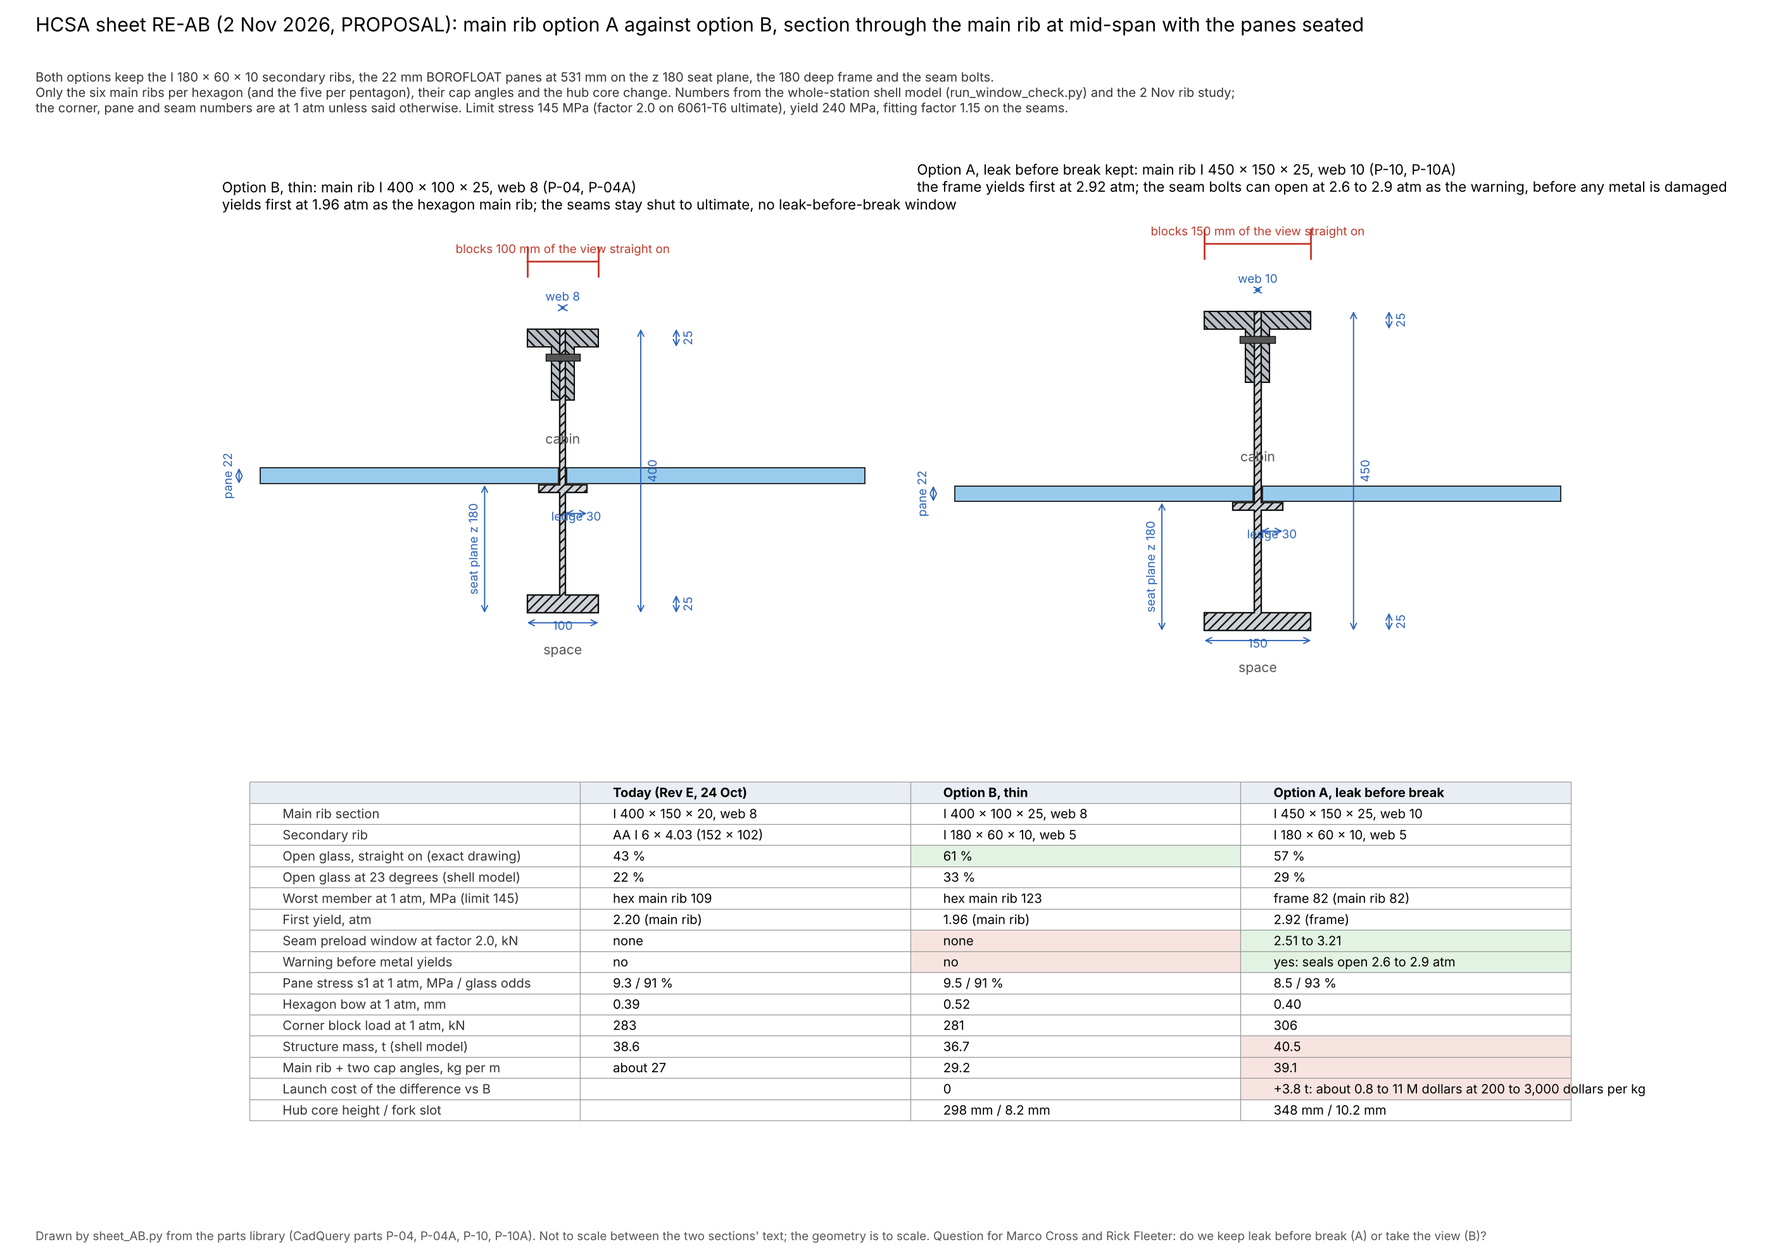
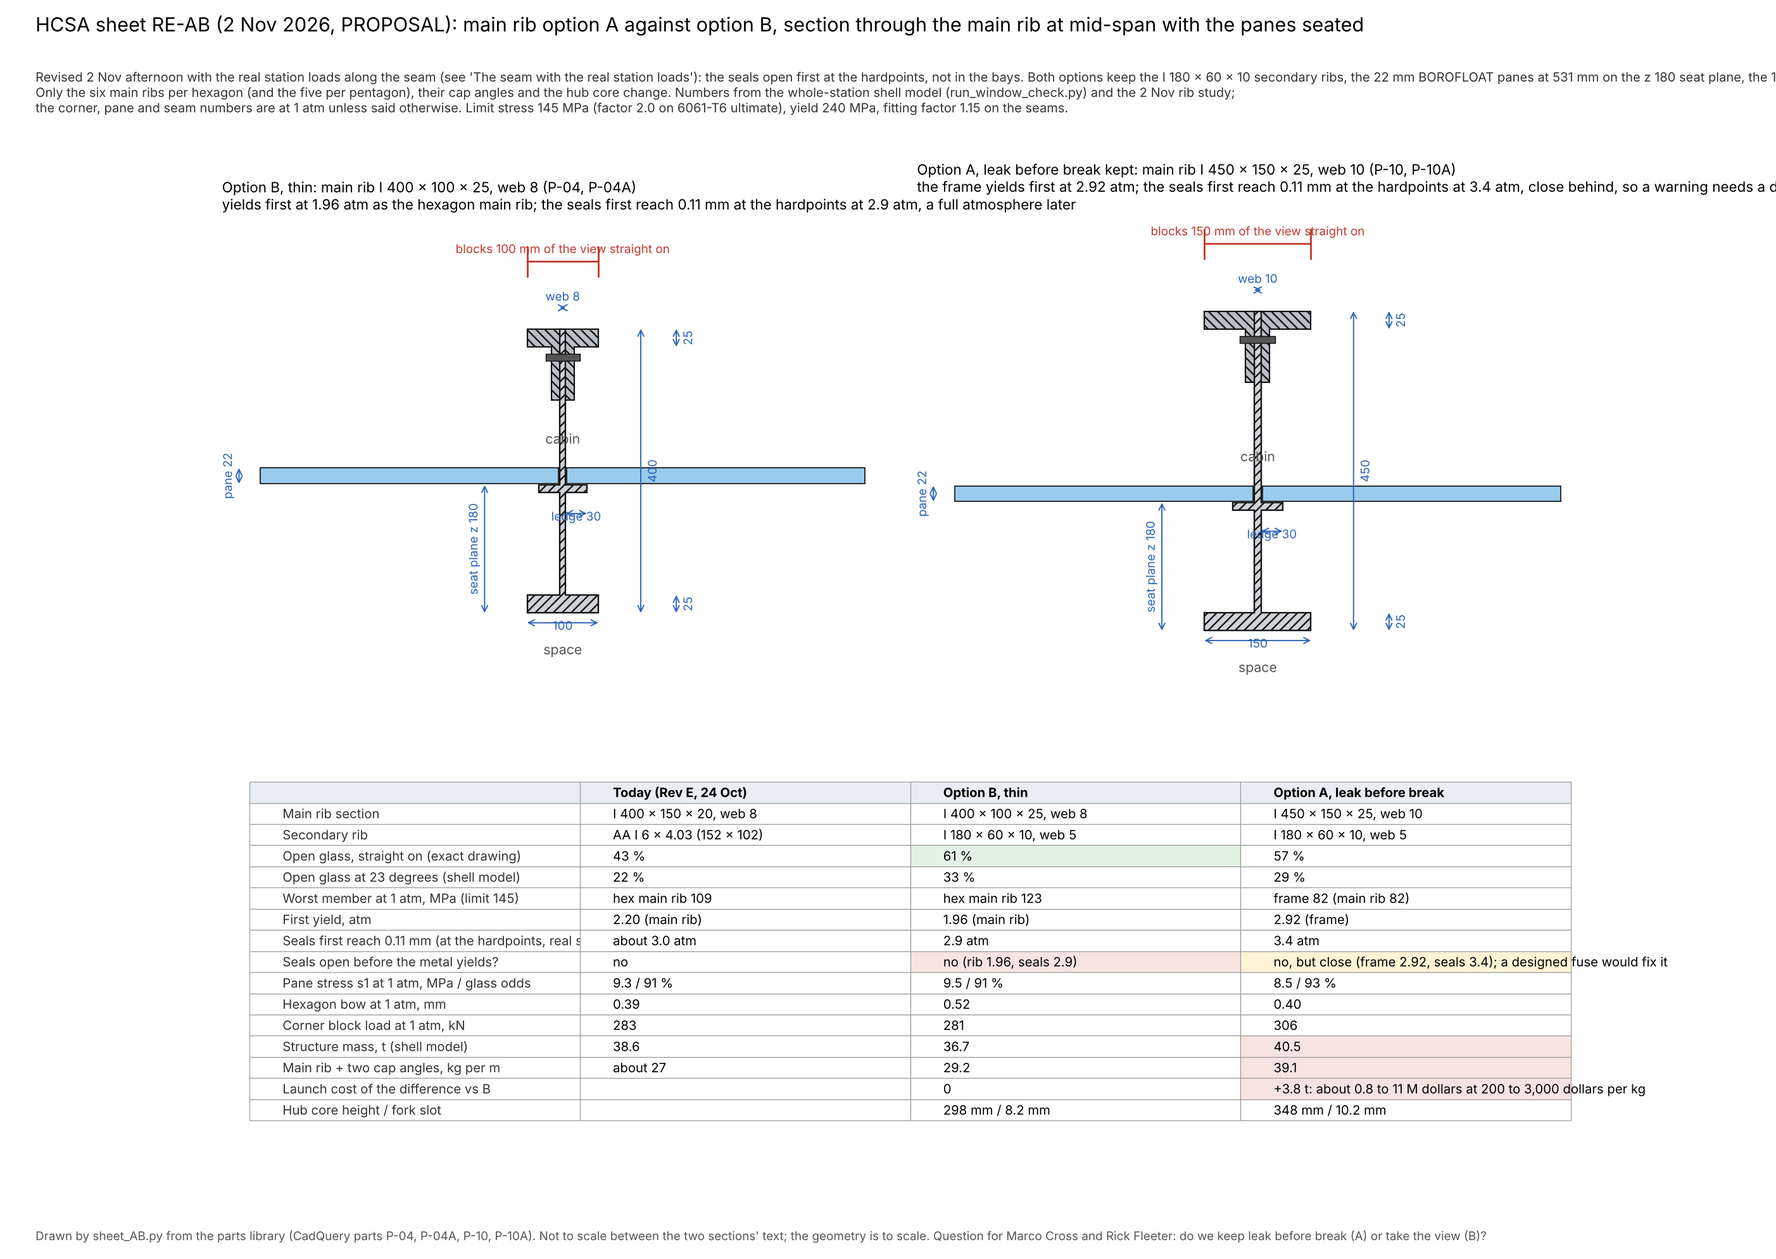
parts: seam with the real station loads, sheet RE-AB corrected (seals open first at the hardpoints)
Claude-Session: https://claude.ai/code/session_01PRftLgK2z9QAWnYeFNqMAn

diff --git a/public/parts/index.html b/public/parts/index.html
@@ -111,7 +111,7 @@ table.dims{border-collapse:collapse;width:100%;font-size:13px} table.dims td{bor
   </div>
   <div class="row2">
     <div><table class='dims'><tr><td>depth</td><td>400.0</td></tr><tr><td>flange width</td><td>100.0</td></tr><tr><td>flange t</td><td>25.0</td></tr><tr><td>web t</td><td>8.0</td></tr><tr><td>ledge reach</td><td>30.0</td></tr><tr><td>ledge t</td><td>10.0</td></tr><tr><td>seat plane</td><td>180.0</td></tr><tr><td>cap bolt</td><td>3/8-24 A286 at 90 mm</td></tr><tr><td>length</td><td>2020.0</td></tr><tr><td>kg per m</td><td>16.5</td></tr></table><p class="units">All dimensions in mm.</p></div>
-    <div class="notes"><p>Option B of the 2 Nov correction note: the thin main rib. Outer flange 100 x 25, web 8, seat ledges 30 mm each side at the seat plane z 170-180. The inner flange is the two bolted angles P-04A. 3/8-24 cap bolt holes through the web at 90 mm pitch, 40 mm below the cabin face. Length 2020 mm between hub and corner block (schematic ends). Yields at 1.96 atm as the hexagon main rib, so the seams stay shut to ultimate and there is no leak-before-break window.</p><p class="src">Source: Rev E restack (24 Oct), rib study and correction (2 Nov)</p>
+    <div class="notes"><p>Option B of the 2 Nov correction note: the thin main rib. Outer flange 100 x 25, web 8, seat ledges 30 mm each side at the seat plane z 170-180. The inner flange is the two bolted angles P-04A. 3/8-24 cap bolt holes through the web at 90 mm pitch, 40 mm below the cabin face. Length 2020 mm between hub and corner block (schematic ends). Yields at 1.96 atm as the hexagon main rib; the seals first reach 0.11 mm at the hardpoints at 2.9 atm, a full atmosphere later, so there is no warning before the metal.</p><p class="src">Source: Rev E restack (24 Oct), rib study and correction (2 Nov)</p>
       <p class="dl"><a href="step/P-04.step" download>STEP</a> <a href="glb/P-04.glb" download>GLB</a> <a href='svg/P-04_front.svg' download>front SVG</a> <a href='svg/P-04_top.svg' download>top SVG</a> <a href='svg/P-04_side.svg' download>side SVG</a> <a href='svg/P-04_iso.svg' download>iso SVG</a></p></div>
   </div>
 </section>
@@ -137,7 +137,7 @@ table.dims{border-collapse:collapse;width:100%;font-size:13px} table.dims td{bor
   </div>
   <div class="row2">
     <div><table class='dims'><tr><td>depth</td><td>450.0</td></tr><tr><td>flange width</td><td>150.0</td></tr><tr><td>flange t</td><td>25.0</td></tr><tr><td>web t</td><td>10.0</td></tr><tr><td>ledge reach</td><td>30.0</td></tr><tr><td>ledge t</td><td>10.0</td></tr><tr><td>seat plane</td><td>180.0</td></tr><tr><td>cap bolt</td><td>3/8-24 A286 at 90 mm</td></tr><tr><td>length</td><td>2020.0</td></tr><tr><td>kg per m</td><td>23.2</td></tr></table><p class="units">All dimensions in mm.</p></div>
-    <div class="notes"><p>Option A of the 2 Nov correction note: the main rib sized so the frame, not the main rib, is the first member to yield (2.92 atm), which gives the seam bolts a window to open at 2.6 to 2.9 atm before anything in the metal is damaged. Outer flange 150 x 25, web 10, same seat ledges and seat plane as option B. The inner flange is the two bolted angles P-10A. Same 3/8-24 cap bolts at 90 mm. Blocks 50 mm more glass than option B along each of the six spokes (open glass 57 against 61 percent straight on) and adds about 1.9 t to the station.</p><p class="src">Source: Correction (2 Nov), window check run_window_check.py</p>
+    <div class="notes"><p>Option A of the 2 Nov correction note: the main rib sized so the frame, not the main rib, is the first member to yield (2.92 atm). With the real station loads the seals first reach 0.11 mm at the hardpoints at 3.4 atm, close behind the frame, so a warning before yield still needs a designed fuse (seam note of 2 Nov afternoon). Outer flange 150 x 25, web 10, same seat ledges and seat plane as option B. The inner flange is the two bolted angles P-10A. Same 3/8-24 cap bolts at 90 mm. Blocks 50 mm more glass than option B along each of the six spokes (open glass 57 against 61 percent straight on) and adds about 1.9 t to the station.</p><p class="src">Source: Correction (2 Nov), window check run_window_check.py</p>
       <p class="dl"><a href="step/P-10.step" download>STEP</a> <a href="glb/P-10.glb" download>GLB</a> <a href='svg/P-10_front.svg' download>front SVG</a> <a href='svg/P-10_top.svg' download>top SVG</a> <a href='svg/P-10_side.svg' download>side SVG</a> <a href='svg/P-10_iso.svg' download>iso SVG</a></p></div>
   </div>
 </section>
@@ -214,13 +214,13 @@ table.dims{border-collapse:collapse;width:100%;font-size:13px} table.dims td{bor
 <section class="part asm" id="A-02A">
   <header><span class="pid">A-02A</span><h2>Hexagon panel, option A (leak before break kept): frame, six 450 x 150 main ribs with cap angles, hub, the k 4 secondary grid with its nodes, and the 96 pressure panes</h2></header>
   <div class="row"><div class="viewer big" data-glb="glb/A-02A_hexagon_panel.glb"><canvas></canvas><div class="hint">drag to turn, wheel to zoom, right-drag to pan</div></div></div>
-  <div class="row2"><div class="notes"><p>One of the 20 glass hexagons with the I 180 x 60 x 10 secondary ribs and the option A main ribs (P-10, P-10A). The frame, not the main rib, is the first member to yield (2.92 atm), so the seam bolts can open as the warning at 2.6 to 2.9 atm. Open glass 57 percent straight on. The panes rest on the cabin face of the secondary rib inner flanges at z 180. The frame is drawn straight; the real web leans 20.9 degrees to the joint plane. Corner blocks and mid-seam hardpoints are not in this model yet.</p><p class="dl"><span class='src'>STEP assembly (40 MB) is in Drive, UPDATES / Week 09 / parts library</span> <a href="glb/A-02A_hexagon_panel.glb" download>GLB</a></p></div></div>
+  <div class="row2"><div class="notes"><p>One of the 20 glass hexagons with the I 180 x 60 x 10 secondary ribs and the option A main ribs (P-10, P-10A). The frame, not the main rib, is the first member to yield (2.92 atm); with the real station loads the seals first reach 0.11 mm at the hardpoints at 3.4 atm, close behind it, so a warning before yield still needs a designed fuse (seam note of 2 Nov afternoon). Open glass 57 percent straight on. The panes rest on the cabin face of the secondary rib inner flanges at z 180. The frame is drawn straight; the real web leans 20.9 degrees to the joint plane. Corner blocks and mid-seam hardpoints are not in this model yet.</p><p class="dl"><span class='src'>STEP assembly (40 MB) is in Drive, UPDATES / Week 09 / parts library</span> <a href="glb/A-02A_hexagon_panel.glb" download>GLB</a></p></div></div>
 </section>
 <section class="part asm" id="A-02B">
   <header><span class="pid">A-02B</span><h2>Hexagon panel, option B (thin): the same with the 400 x 100 main ribs</h2></header>
   <div class="row"><div class="viewer big" data-glb="glb/A-02B_hexagon_panel.glb"><canvas></canvas><div class="hint">drag to turn, wheel to zoom, right-drag to pan</div></div></div>
-  <div class="row2"><div class="notes"><p>The same hexagon with the thin option B main ribs (P-04, P-04A). The hexagon main rib yields first at 1.96 atm, so the seams stay shut through ultimate and there is no leak-before-break window. Open glass 61 percent straight on, 3.8 t lighter than option A across the station. Which of the two we build is the question put to Marco Cross and Rick Fleeter on 2 November; see sheet RE-AB and the renders below.</p><p class="dl"><span class='src'>STEP assembly (40 MB) is in Drive, UPDATES / Week 09 / parts library</span> <a href="glb/A-02B_hexagon_panel.glb" download>GLB</a></p></div></div>
-</section><section class='part' id='figures'><header><span class='pid'>F</span><h2>Figures from the 1-2 November studies</h2></header><figure style='margin:16px 0;background:#fff;border-radius:6px;padding:6px'><img src='figures/render_AB_compare.png' style='width:100%;display:block'><figcaption style='color:#333;font-size:12px;padding:6px'>Option A against option B rendered from the parts models: from the middle of the station straight at the hexagon, from two metres inside the glass at an angle, and toward the far edge of the hexagon. Same glass, same secondary ribs, same frame; only the six main ribs change.</figcaption></figure><figure style='margin:16px 0;background:#fff;border-radius:6px;padding:6px'><img src='figures/sheet_RE-AB_main_rib_options.png' style='width:100%;display:block'><figcaption style='color:#333;font-size:12px;padding:6px'>Sheet RE-AB: the two main rib sections dimensioned, with the panes seated, and the numbers that decide between them (open glass, first yield, the seam window, pane stress, mass, launch cost).</figcaption></figure><figure style='margin:16px 0;background:#fff;border-radius:6px;padding:6px'><img src='figures/render_A_outside.png' style='width:100%;display:block'><figcaption style='color:#333;font-size:12px;padding:6px'>Option A hexagon from outside.</figcaption></figure><figure style='margin:16px 0;background:#fff;border-radius:6px;padding:6px'><img src='figures/render_B_outside.png' style='width:100%;display:block'><figcaption style='color:#333;font-size:12px;padding:6px'>Option B hexagon from outside.</figcaption></figure><figure style='margin:16px 0;background:#fff;border-radius:6px;padding:6px'><img src='figures/ribview_faces_normal.png' style='width:100%;display:block'><figcaption style='color:#333;font-size:12px;padding:6px'>One hexagon straight on: today, choice A (leak before break kept, 450 x 150 main ribs) and choice B (thin 400 x 100 main ribs). Open glass 43, 57 and 61 percent by the exact drawing.</figcaption></figure><figure style='margin:16px 0;background:#fff;border-radius:6px;padding:6px'><img src='figures/ribview_faces_23deg.png' style='width:100%;display:block'><figcaption style='color:#333;font-size:12px;padding:6px'>The same three faces at 23 degrees off normal, how the far edge of a hexagon looks from the middle of the station.</figcaption></figure><figure style='margin:16px 0;background:#fff;border-radius:6px;padding:6px'><img src='figures/ribview_vs_angle.png' style='width:100%;display:block'><figcaption style='color:#333;font-size:12px;padding:6px'>Open glass against viewing angle for the candidates.</figcaption></figure><figure style='margin:16px 0;background:#fff;border-radius:6px;padding:6px'><img src='figures/ribview_structure.png' style='width:100%;display:block'><figcaption style='color:#333;font-size:12px;padding:6px'>View against structure for every rib candidate: open glass, glass odds, worst rib stress against the 145 MPa limit, structure mass.</figcaption></figure><figure style='margin:16px 0;background:#fff;border-radius:6px;padding:6px'><img src='figures/corner_ties_2nov.png' style='width:100%;display:block'><figcaption style='color:#333;font-size:12px;padding:6px'>Corner C1 ties with the chosen rib&#x27;s real loads (2 Nov): worst tie 211 kN at 1 atm, 228 at proof, the 1 Nov estimate held.</figcaption></figure><figure style='margin:16px 0;background:#fff;border-radius:6px;padding:6px'><img src='figures/corner_ties_thermal_2nov.png' style='width:100%;display:block'><figcaption style='color:#333;font-size:12px;padding:6px'>Corner C1 with the pentagon 15 K warmer (run of 2 Nov, 05:07): the eight hex-pent ties rise 5 to 6 kN, tie 3 falls 3 kN, the worst tie at proof is 225 kN against the 227 limit. 45 K extrapolated.</figcaption></figure><figure style='margin:16px 0;background:#fff;border-radius:6px;padding:6px'><img src='figures/d1_prying_preloads.png' style='width:100%;display:block'><figcaption style='color:#333;font-size:12px;padding:6px'>D1 seam slice under a prying pull at 2.5, 4 and 10 kN of preload (runs of 2 Nov): the seal gap grows smoothly with pressure, preload shifts it gently (0.11 mm at 2.6, 2.9 and 3.7 atm), and the bolt sees 1.2 to 1.5 kN per kN of pull.</figcaption></figure><figure style='margin:16px 0;background:#fff;border-radius:6px;padding:6px'><img src='figures/d1_run2_prying.png' style='width:100%;display:block'><figcaption style='color:#333;font-size:12px;padding:6px'>D1 seam slice under a prying pull (2.5 kN preload): the joint rotates about its cabin-side edge from the first newton, the face never fully parts, and the seal gap reaches the 0.11 mm gland limit at 2.6 atm.</figcaption></figure><figure style='margin:16px 0;background:#fff;border-radius:6px;padding:6px'><img src='figures/thermal_orbit_baseline.png' style='width:100%;display:block'><figcaption style='color:#333;font-size:12px;padding:6px'>Orbital thermal model, baseline orbit: hexagon and pentagon metal temperatures over six orbits.</figcaption></figure><figure style='margin:16px 0;background:#fff;border-radius:6px;padding:6px'><img src='figures/thermal_dT_by_case.png' style='width:100%;display:block'><figcaption style='color:#333;font-size:12px;padding:6px'>Hexagon-to-pentagon temperature difference by case: 2 to 4 K pressurised, up to about 12 K in the bad cases, 15 K proposed as the design case.</figcaption></figure><p class='src'>The notes behind them are in the project: How thin the ribs can go (2 Nov), Correction (2 Nov), Corner C1 with the chosen rib's real loads (2 Nov), Overnight runs of 2 Nov, Orbital thermal model (1 Nov).</p></section>
+  <div class="row2"><div class="notes"><p>The same hexagon with the thin option B main ribs (P-04, P-04A). The hexagon main rib yields first at 1.96 atm; the seals first reach 0.11 mm at the hardpoints at 2.9 atm, a full atmosphere later, so there is no warning before the metal. Open glass 61 percent straight on, 3.8 t lighter than option A across the station. Which of the two we build is the question put to Marco Cross and Rick Fleeter on 2 November; see sheet RE-AB and the renders below.</p><p class="dl"><span class='src'>STEP assembly (40 MB) is in Drive, UPDATES / Week 09 / parts library</span> <a href="glb/A-02B_hexagon_panel.glb" download>GLB</a></p></div></div>
+</section><section class='part' id='figures'><header><span class='pid'>F</span><h2>Figures from the 1-2 November studies</h2></header><figure style='margin:16px 0;background:#fff;border-radius:6px;padding:6px'><img src='figures/render_AB_compare.png' style='width:100%;display:block'><figcaption style='color:#333;font-size:12px;padding:6px'>Option A against option B rendered from the parts models: from the middle of the station straight at the hexagon, from two metres inside the glass at an angle, and toward the far edge of the hexagon. Same glass, same secondary ribs, same frame; only the six main ribs change.</figcaption></figure><figure style='margin:16px 0;background:#fff;border-radius:6px;padding:6px'><img src='figures/sheet_RE-AB_main_rib_options.png' style='width:100%;display:block'><figcaption style='color:#333;font-size:12px;padding:6px'>Sheet RE-AB: the two main rib sections dimensioned, with the panes seated, and the numbers that decide between them (open glass, first yield, where the seals open first, pane stress, mass, launch cost).</figcaption></figure><figure style='margin:16px 0;background:#fff;border-radius:6px;padding:6px'><img src='figures/seam_stations_2nov.png' style='width:100%;display:block'><figcaption style='color:#333;font-size:12px;padding:6px'>The seam with the real station loads (2 Nov afternoon): the tension per bolt station along a seam is 4 to 5 kN inside the corner blocks, 2 to 2.8 kN at the three hardpoints and 0.4 to 1 kN in the bays between, not the 1.28 kN mean used before. The seals reach 0.11 mm first at the hardpoints, at 3.4 atm (A) or 2.9 atm (B), set by the fitting&#x27;s stretch and not by the bolt preload; so neither option warns before its metal yields without a designed fuse.</figcaption></figure><figure style='margin:16px 0;background:#fff;border-radius:6px;padding:6px'><img src='figures/render_A_outside.png' style='width:100%;display:block'><figcaption style='color:#333;font-size:12px;padding:6px'>Option A hexagon from outside.</figcaption></figure><figure style='margin:16px 0;background:#fff;border-radius:6px;padding:6px'><img src='figures/render_B_outside.png' style='width:100%;display:block'><figcaption style='color:#333;font-size:12px;padding:6px'>Option B hexagon from outside.</figcaption></figure><figure style='margin:16px 0;background:#fff;border-radius:6px;padding:6px'><img src='figures/ribview_faces_normal.png' style='width:100%;display:block'><figcaption style='color:#333;font-size:12px;padding:6px'>One hexagon straight on: today, choice A (leak before break kept, 450 x 150 main ribs) and choice B (thin 400 x 100 main ribs). Open glass 43, 57 and 61 percent by the exact drawing.</figcaption></figure><figure style='margin:16px 0;background:#fff;border-radius:6px;padding:6px'><img src='figures/ribview_faces_23deg.png' style='width:100%;display:block'><figcaption style='color:#333;font-size:12px;padding:6px'>The same three faces at 23 degrees off normal, how the far edge of a hexagon looks from the middle of the station.</figcaption></figure><figure style='margin:16px 0;background:#fff;border-radius:6px;padding:6px'><img src='figures/ribview_vs_angle.png' style='width:100%;display:block'><figcaption style='color:#333;font-size:12px;padding:6px'>Open glass against viewing angle for the candidates.</figcaption></figure><figure style='margin:16px 0;background:#fff;border-radius:6px;padding:6px'><img src='figures/ribview_structure.png' style='width:100%;display:block'><figcaption style='color:#333;font-size:12px;padding:6px'>View against structure for every rib candidate: open glass, glass odds, worst rib stress against the 145 MPa limit, structure mass.</figcaption></figure><figure style='margin:16px 0;background:#fff;border-radius:6px;padding:6px'><img src='figures/corner_ties_2nov.png' style='width:100%;display:block'><figcaption style='color:#333;font-size:12px;padding:6px'>Corner C1 ties with the chosen rib&#x27;s real loads (2 Nov): worst tie 211 kN at 1 atm, 228 at proof, the 1 Nov estimate held.</figcaption></figure><figure style='margin:16px 0;background:#fff;border-radius:6px;padding:6px'><img src='figures/corner_ties_thermal_2nov.png' style='width:100%;display:block'><figcaption style='color:#333;font-size:12px;padding:6px'>Corner C1 with the pentagon 15 K warmer (run of 2 Nov, 05:07): the eight hex-pent ties rise 5 to 6 kN, tie 3 falls 3 kN, the worst tie at proof is 225 kN against the 227 limit. 45 K extrapolated.</figcaption></figure><figure style='margin:16px 0;background:#fff;border-radius:6px;padding:6px'><img src='figures/d1_prying_preloads.png' style='width:100%;display:block'><figcaption style='color:#333;font-size:12px;padding:6px'>D1 seam slice under a prying pull at 2.5, 4 and 10 kN of preload (runs of 2 Nov): the seal gap grows smoothly with pressure, preload shifts it gently (0.11 mm at 2.6, 2.9 and 3.7 atm), and the bolt sees 1.2 to 1.5 kN per kN of pull.</figcaption></figure><figure style='margin:16px 0;background:#fff;border-radius:6px;padding:6px'><img src='figures/d1_run2_prying.png' style='width:100%;display:block'><figcaption style='color:#333;font-size:12px;padding:6px'>D1 seam slice under a prying pull (2.5 kN preload): the joint rotates about its cabin-side edge from the first newton, the face never fully parts, and the seal gap reaches the 0.11 mm gland limit at 2.6 atm.</figcaption></figure><figure style='margin:16px 0;background:#fff;border-radius:6px;padding:6px'><img src='figures/thermal_orbit_baseline.png' style='width:100%;display:block'><figcaption style='color:#333;font-size:12px;padding:6px'>Orbital thermal model, baseline orbit: hexagon and pentagon metal temperatures over six orbits.</figcaption></figure><figure style='margin:16px 0;background:#fff;border-radius:6px;padding:6px'><img src='figures/thermal_dT_by_case.png' style='width:100%;display:block'><figcaption style='color:#333;font-size:12px;padding:6px'>Hexagon-to-pentagon temperature difference by case: 2 to 4 K pressurised, up to about 12 K in the bad cases, 15 K proposed as the design case.</figcaption></figure><p class='src'>The notes behind them are in the project: How thin the ribs can go (2 Nov), Correction (2 Nov), Corner C1 with the chosen rib's real loads (2 Nov), Overnight runs of 2 Nov, Orbital thermal model (1 Nov).</p></section>
 <footer style="padding:24px 32px;color:var(--mute);font-size:12px">Built with CadQuery from parts_lib.py and assemblies.py. Masses are model volumes times nominal densities. 2 November 2026.</footer>
 <script type="module">
 import * as THREE from 'three';
